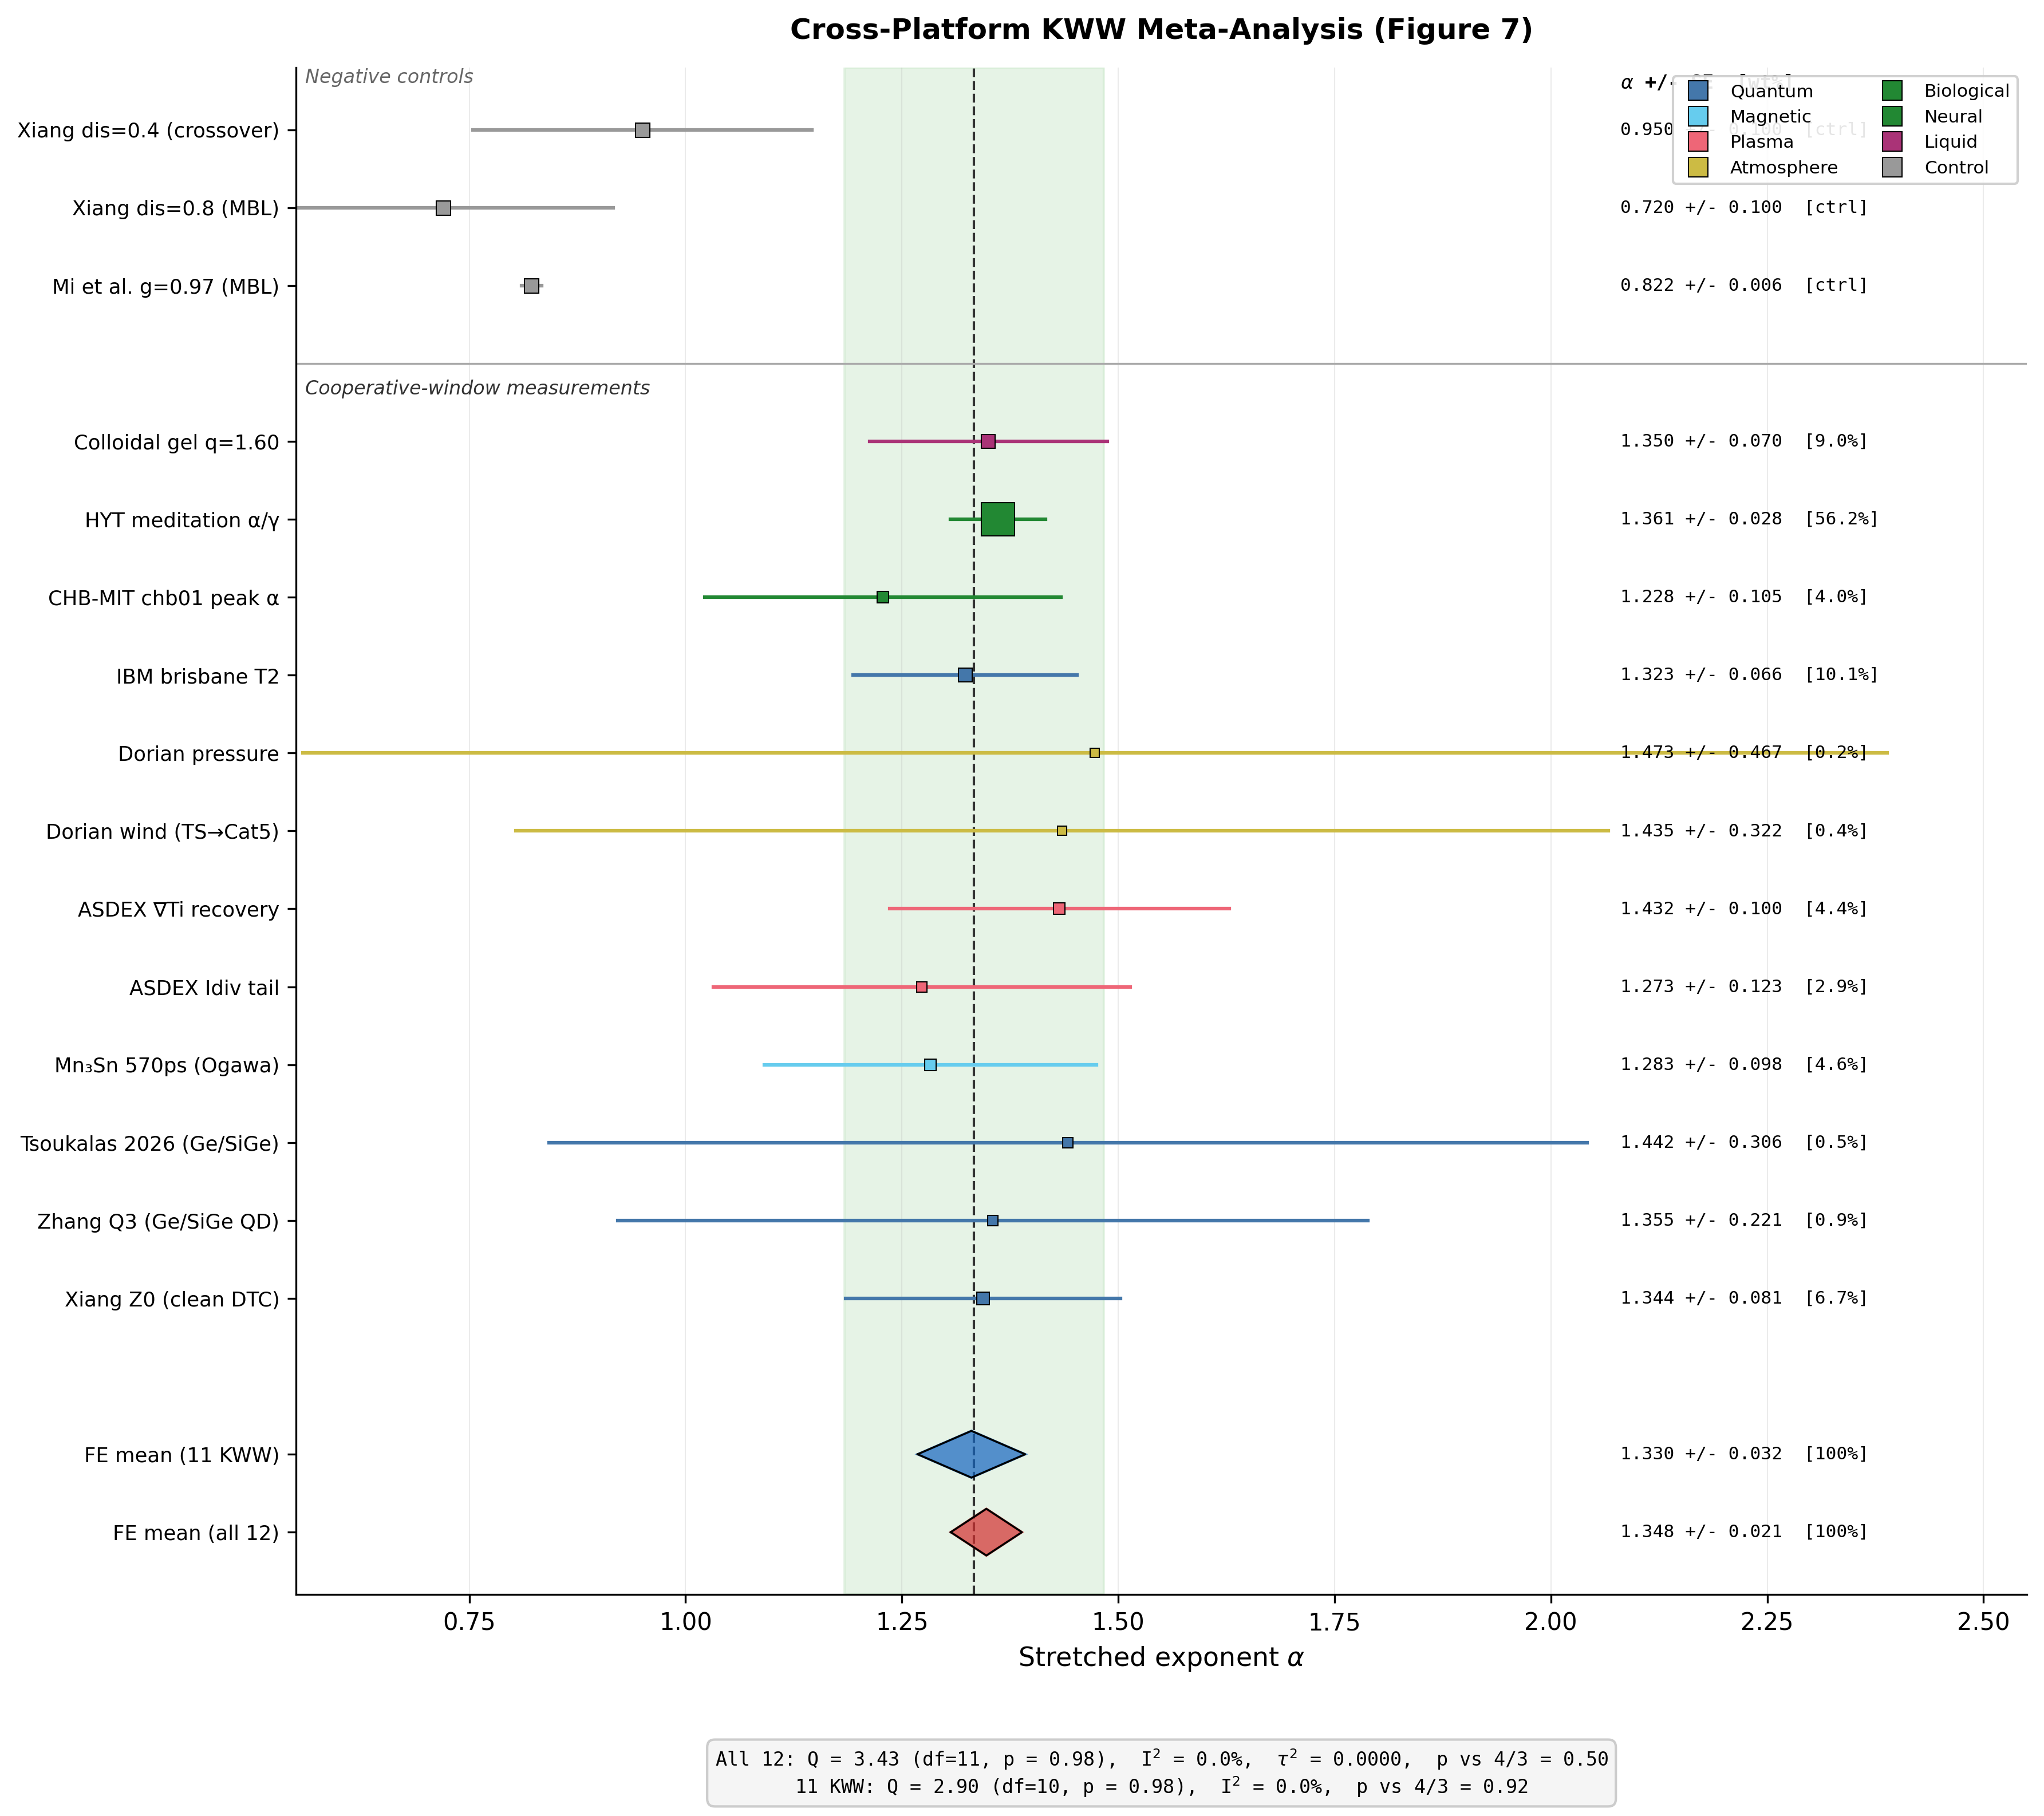
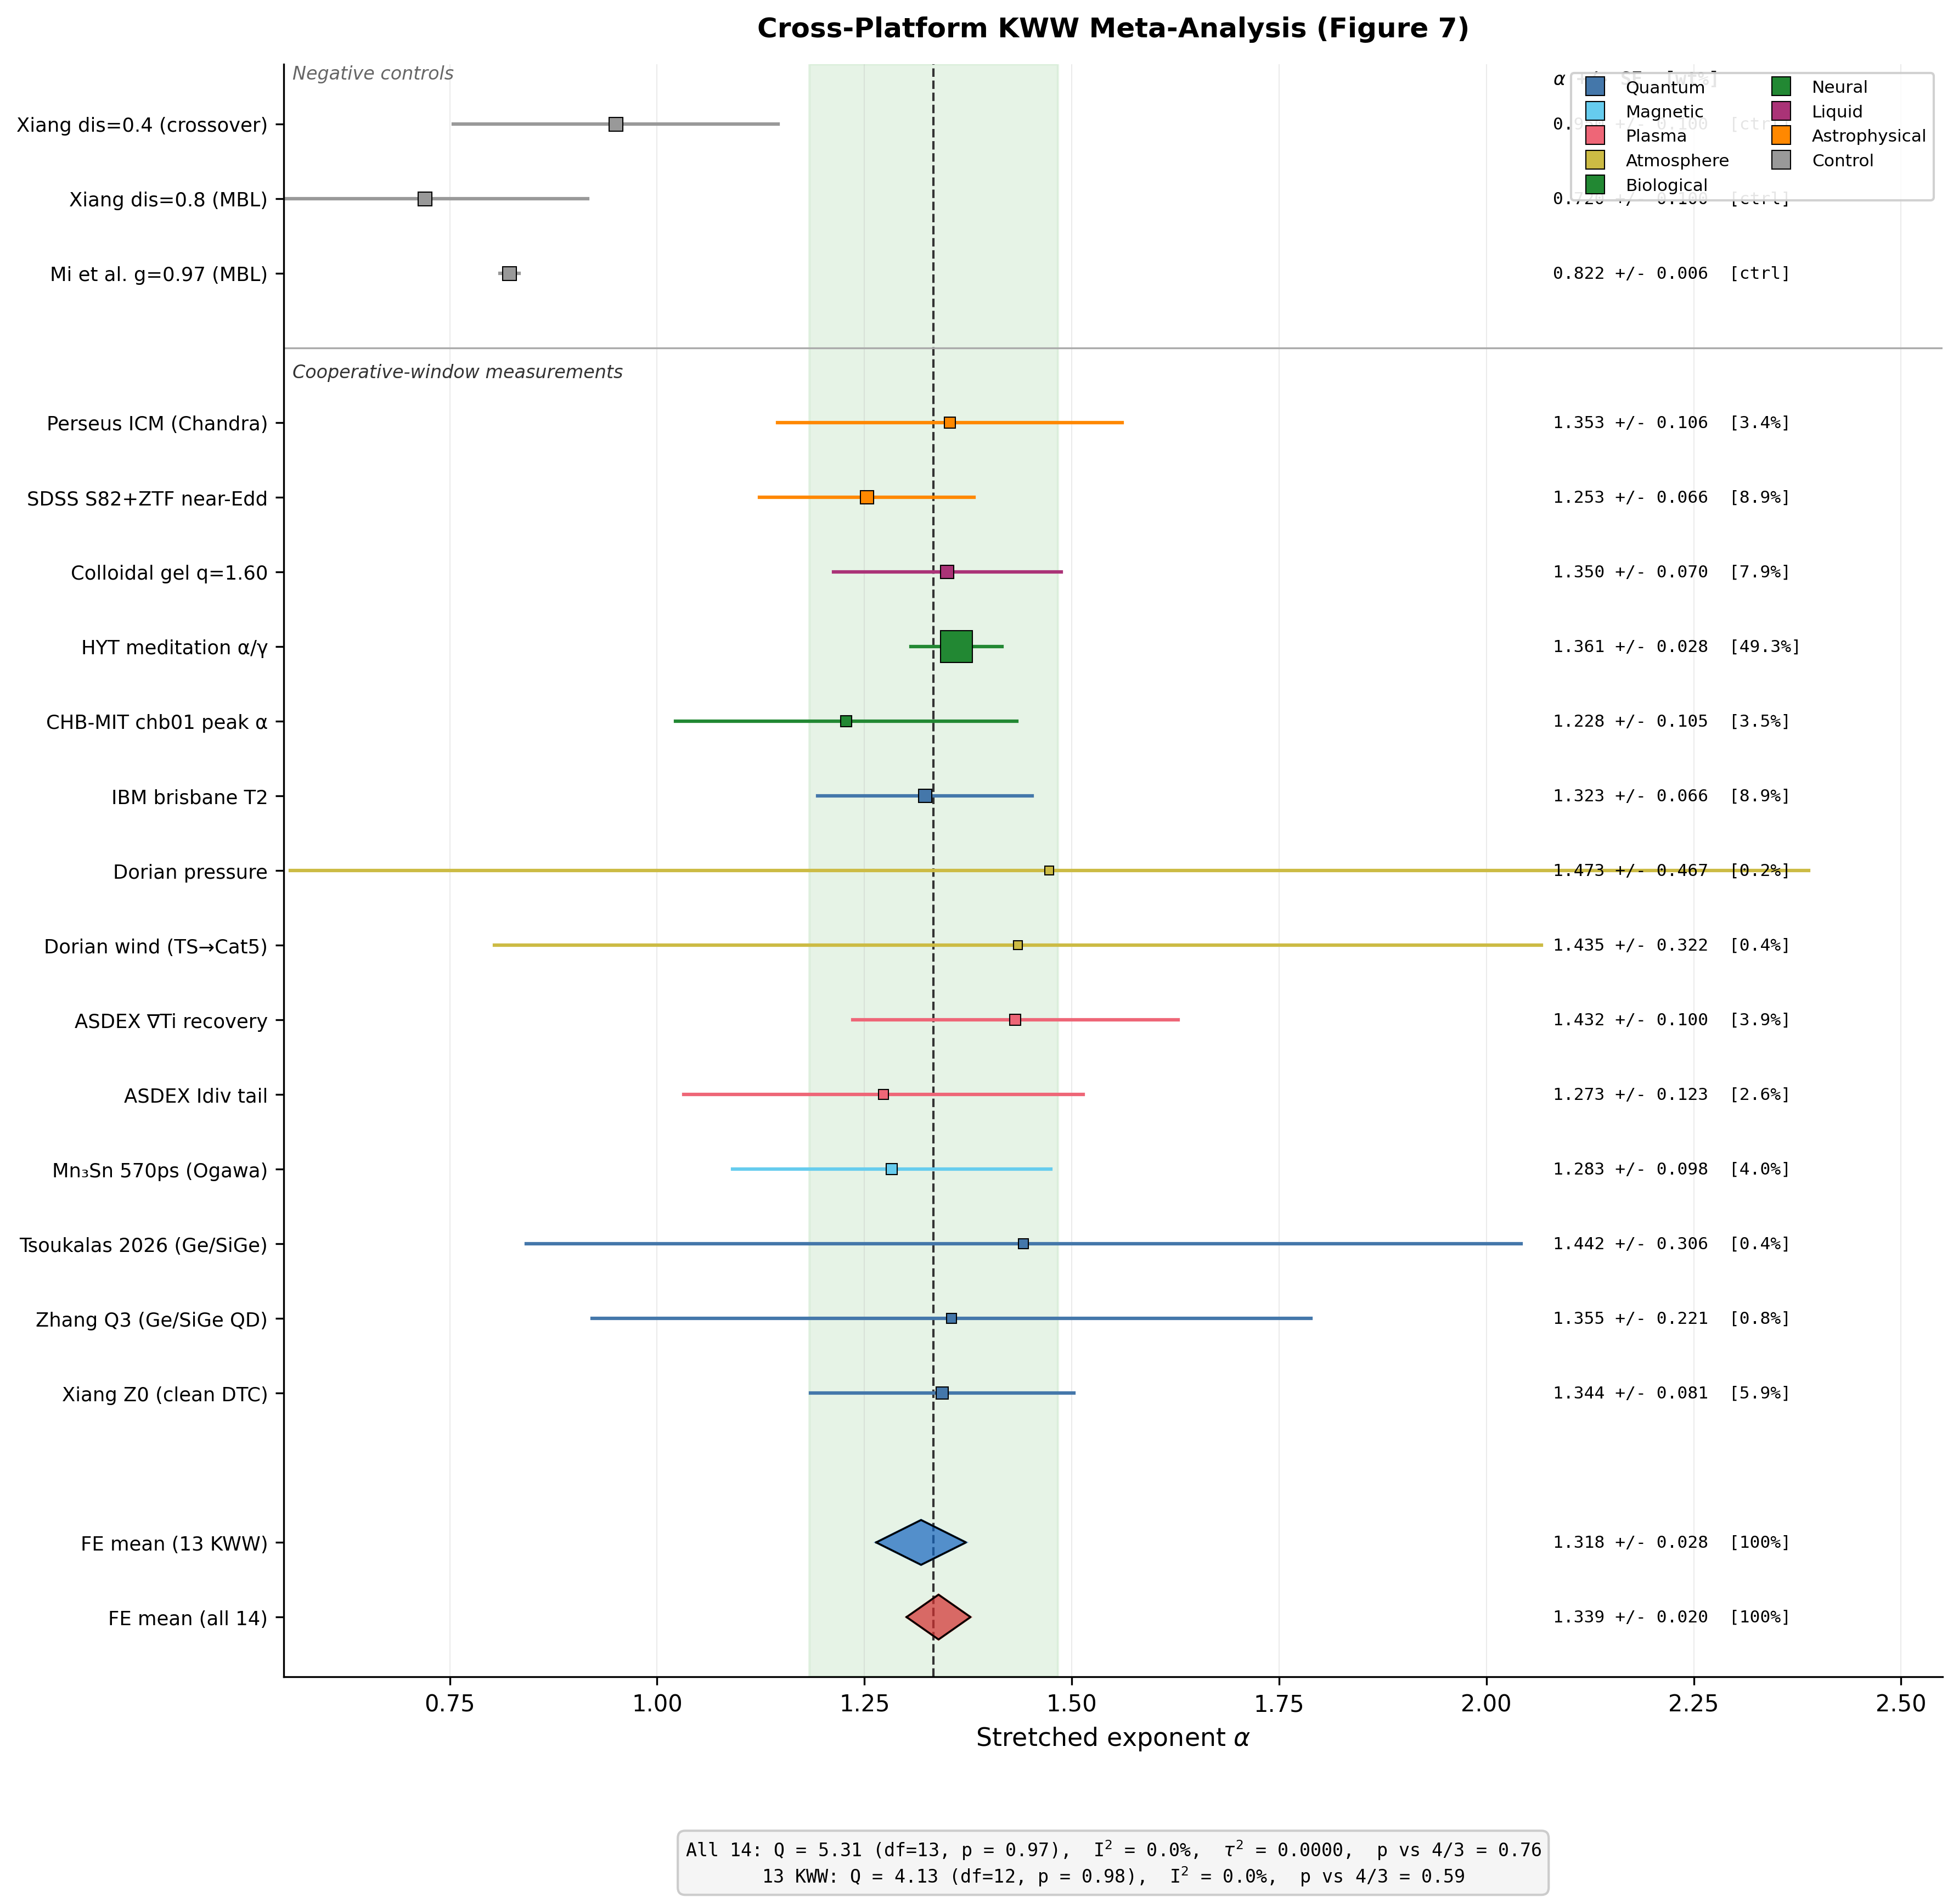
Add P6 quasar and P7 Perseus measurements to meta-analysis (12 → 14)
Include SDSS S82+ZTF near-Eddington (α=1.253±0.066) and Perseus ICM
Chandra (α=1.353±0.106) as measurements 13-14 in the forest plot.

Updated meta-analysis results (14 measurements, 12 platforms):
  RE mean α = 1.3393 ± 0.0197 (95% CI [1.301, 1.378])
  I² = 0.0%, τ² = 0, p vs 4/3 = 0.760

Added Astrophysical domain color (#FF8800). All 12→14 and 11→13
labels updated throughout script, plot, report, and JSON output.

diff --git a/analysis/meta_analysis_forest_plot.py b/analysis/meta_analysis_forest_plot.py
@@ -4,7 +4,7 @@ Meta-Analysis and Forest Plot for Cross-Platform KWW Measurements
 Paper Section 9.3 / Figure 7
 
 Computes inverse-variance weighted fixed-effects and DerSimonian-Laird
-random-effects meta-analysis for all 12 cooperative-window measurements
+random-effects meta-analysis for all 14 cooperative-window measurements
 from Table 9, plus 3 negative controls.
 
 Generates:
@@ -31,7 +31,7 @@ import numpy as np
 from scipy import stats
 
 # ============================================================================
-# DATA: All 12 measurements from Table 9 (cooperative window only)
+# DATA: All 14 measurements from Table 9 (cooperative window only)
 # ============================================================================
 MEASUREMENTS = [
     {'name': 'Xiang Z0 (clean DTC)', 'alpha': 1.344, 'se': 0.081, 'domain': 'Quantum', 'state': 'Condensate'},
@@ -46,6 +46,8 @@ MEASUREMENTS = [
     {'name': 'CHB-MIT chb01 peak α', 'alpha': 1.228, 'se': 0.105, 'domain': 'Biological', 'state': 'Biological'},
     {'name': 'HYT meditation α/γ', 'alpha': 1.361, 'se': 0.028, 'domain': 'Neural', 'state': 'Neural'},
     {'name': 'Colloidal gel q=1.60', 'alpha': 1.35, 'se': 0.07, 'domain': 'Liquid', 'state': 'Liquid'},
+    {'name': 'SDSS S82+ZTF near-Edd', 'alpha': 1.253, 'se': 0.066, 'domain': 'Astrophysical', 'state': 'Plasma'},
+    {'name': 'Perseus ICM (Chandra)', 'alpha': 1.353, 'se': 0.106, 'domain': 'Astrophysical', 'state': 'Plasma'},
 ]
 
 # Negative controls (plotted separately, excluded from meta-analysis)
@@ -69,6 +71,7 @@ DOMAIN_COLORS = {
     'Neural': '#228833',
     'Liquid': '#AA3377',
     'Magnetic': '#66CCEE',
+    'Astrophysical': '#FF8800',
 }
 
 
@@ -196,9 +199,9 @@ def make_forest_plot(measurements, controls, res_all, res_kww, outpath):
     Publication-quality forest plot (Figure 7).
 
     Layout (bottom to top):
-        - Diamond for weighted mean (all 12)
-        - Diamond for weighted mean (11 KWW)
-        - 12 measurements (index 0 at bottom)
+        - Diamond for weighted mean (all 14)
+        - Diamond for weighted mean (13 KWW)
+        - 14 measurements (index 0 at bottom)
         - 3 negative controls (gray)
     """
     n_meas = len(measurements)
@@ -271,19 +274,19 @@ def make_forest_plot(measurements, controls, res_all, res_kww, outpath):
     # --- Separator line ---
     ax.axhline(y_sep, color='#aaaaaa', lw=0.8, ls='-', zorder=1)
 
-    # --- Diamond for weighted mean (all 12) ---
+    # --- Diamond for weighted mean (all 14) ---
     _draw_diamond(ax, y_diamond_all, res_all['alpha_wm'], res_all['ci_lo'],
                   res_all['ci_hi'], color='#D32F2F')
-    y_labels.append('FE mean (all 12)')
+    y_labels.append('FE mean (all 14)')
     y_positions.append(y_diamond_all)
     annotations.append(
         f"{res_all['alpha_wm']:.3f} +/- {res_all['se_wm']:.3f}  [100%]"
     )
 
-    # --- Diamond for weighted mean (11 KWW) ---
+    # --- Diamond for weighted mean (13 KWW) ---
     _draw_diamond(ax, y_diamond_kww, res_kww['alpha_wm'], res_kww['ci_lo'],
                   res_kww['ci_hi'], color='#1565C0')
-    y_labels.append('FE mean (11 KWW)')
+    y_labels.append('FE mean (13 KWW)')
     y_positions.append(y_diamond_kww)
     annotations.append(
         f"{res_kww['alpha_wm']:.3f} +/- {res_kww['se_wm']:.3f}  [100%]"
@@ -310,12 +313,12 @@ def make_forest_plot(measurements, controls, res_all, res_kww, outpath):
 
     # --- Bottom statistics text ---
     stat_text = (
-        f"All 12: Q = {res_all['Q']:.2f} (df={res_all['Q_df']}, "
+        f"All 14: Q = {res_all['Q']:.2f} (df={res_all['Q_df']}, "
         f"p = {res_all['Q_p']:.2f}),  "
         "I$^2$ = " + f"{res_all['I2']:.1f}%,  "
         "$\\tau^2$ = " + f"{res_all['tau2']:.4f},  "
         f"p vs 4/3 = {res_all['p_vs_43']:.2f}\n"
-        f"11 KWW: Q = {res_kww['Q']:.2f} (df={res_kww['Q_df']}, "
+        f"13 KWW: Q = {res_kww['Q']:.2f} (df={res_kww['Q_df']}, "
         f"p = {res_kww['Q_p']:.2f}),  "
         "I$^2$ = " + f"{res_kww['I2']:.1f}%,  "
         f"p vs 4/3 = {res_kww['p_vs_43']:.2f}"
@@ -387,18 +390,18 @@ def main():
     print()
 
     # ------------------------------------------------------------------
-    # 1. All 12 measurements
+    # 1. All 14 measurements
     # ------------------------------------------------------------------
-    res_all = meta_analysis(MEASUREMENTS, label='All 12 measurements')
-    report_all = format_report(res_all, 'ALL 12 MEASUREMENTS')
+    res_all = meta_analysis(MEASUREMENTS, label='All 14 measurements')
+    report_all = format_report(res_all, 'ALL 14 MEASUREMENTS')
     print(report_all)
 
     # ------------------------------------------------------------------
-    # 2. 11-KWW subset (exclude meditation ratio, index 10)
+    # 2. 13-KWW subset (exclude meditation ratio, index 10)
     # ------------------------------------------------------------------
     kww_subset = [m for i, m in enumerate(MEASUREMENTS) if i != 10]
-    res_kww = meta_analysis(kww_subset, label='11 KWW measurements')
-    report_kww = format_report(res_kww, '11 KWW MEASUREMENTS (excl. meditation ratio)')
+    res_kww = meta_analysis(kww_subset, label='13 KWW measurements')
+    report_kww = format_report(res_kww, '13 KWW MEASUREMENTS (excl. meditation ratio)')
     print(report_kww)
     # ------------------------------------------------------------------
     # 3. Per-measurement detail table
@@ -436,9 +439,9 @@ def main():
     # 4. Comparison block
     # ------------------------------------------------------------------
     compare_lines = []
-    compare_lines.append("COMPARISON: 12 vs 11 KWW")
+    compare_lines.append("COMPARISON: 14 vs 13 KWW")
     compare_lines.append("=" * 50)
-    compare_lines.append(f"  {'':20} {'All 12':>12}  {'11 KWW':>12}")
+    compare_lines.append(f"  {'':20} {'All 14':>12}  {'13 KWW':>12}")
     compare_lines.append(f"  {'Weighted mean':20} {res_all['alpha_wm']:>12.4f}  {res_kww['alpha_wm']:>12.4f}")
     compare_lines.append(f"  {'SE':20} {res_all['se_wm']:>12.4f}  {res_kww['se_wm']:>12.4f}")
     compare_lines.append(f"  {'95% CI lo':20} {res_all['ci_lo']:>12.4f}  {res_kww['ci_lo']:>12.4f}")
@@ -475,8 +478,8 @@ def main():
     json_data = {
         'measurements': MEASUREMENTS,
         'controls': CONTROLS,
-        'meta_all_12': res_all,
-        'meta_11_kww': res_kww,
+        'meta_all_14': res_all,
+        'meta_13_kww': res_kww,
         'reference_alpha': float(ALPHA_REF),
         'cooperative_window': [float(COOP_LO), float(COOP_HI)],
     }